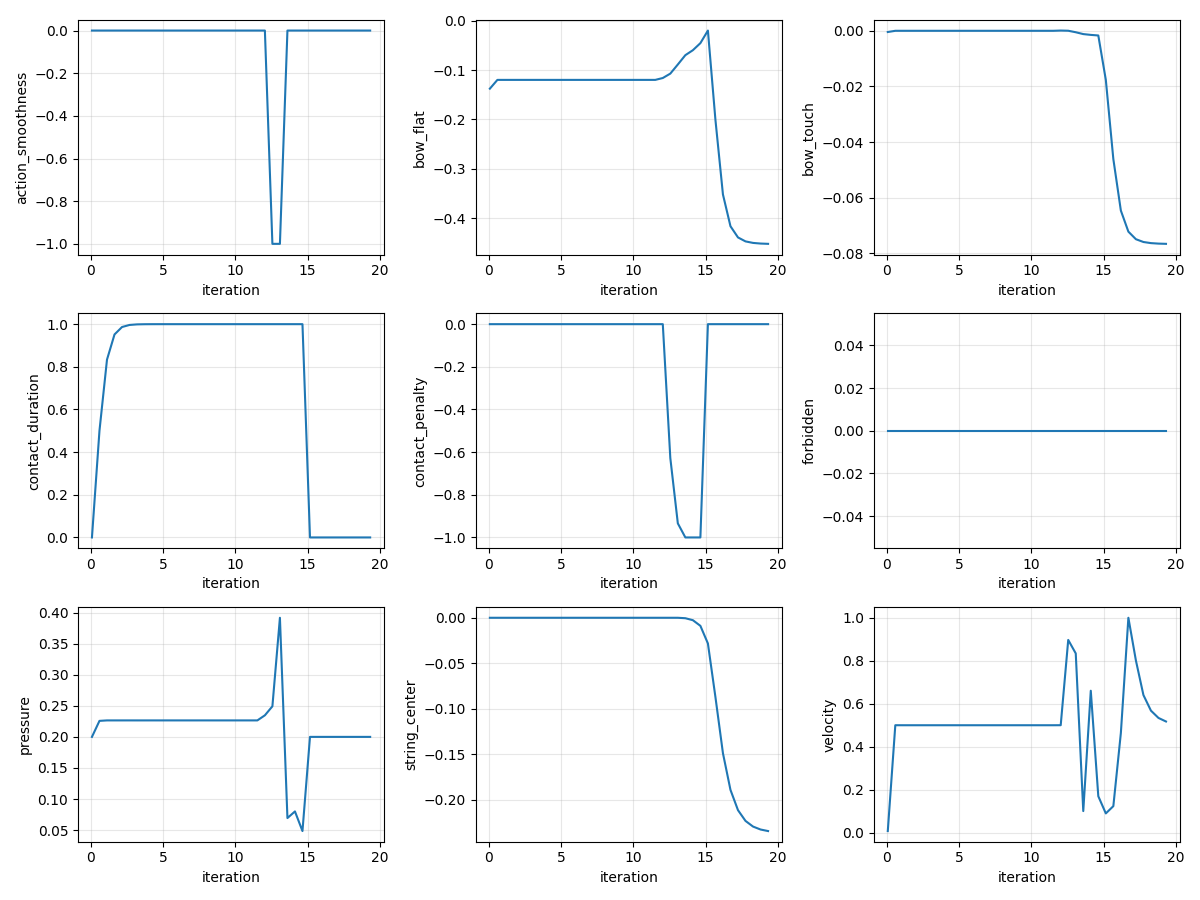
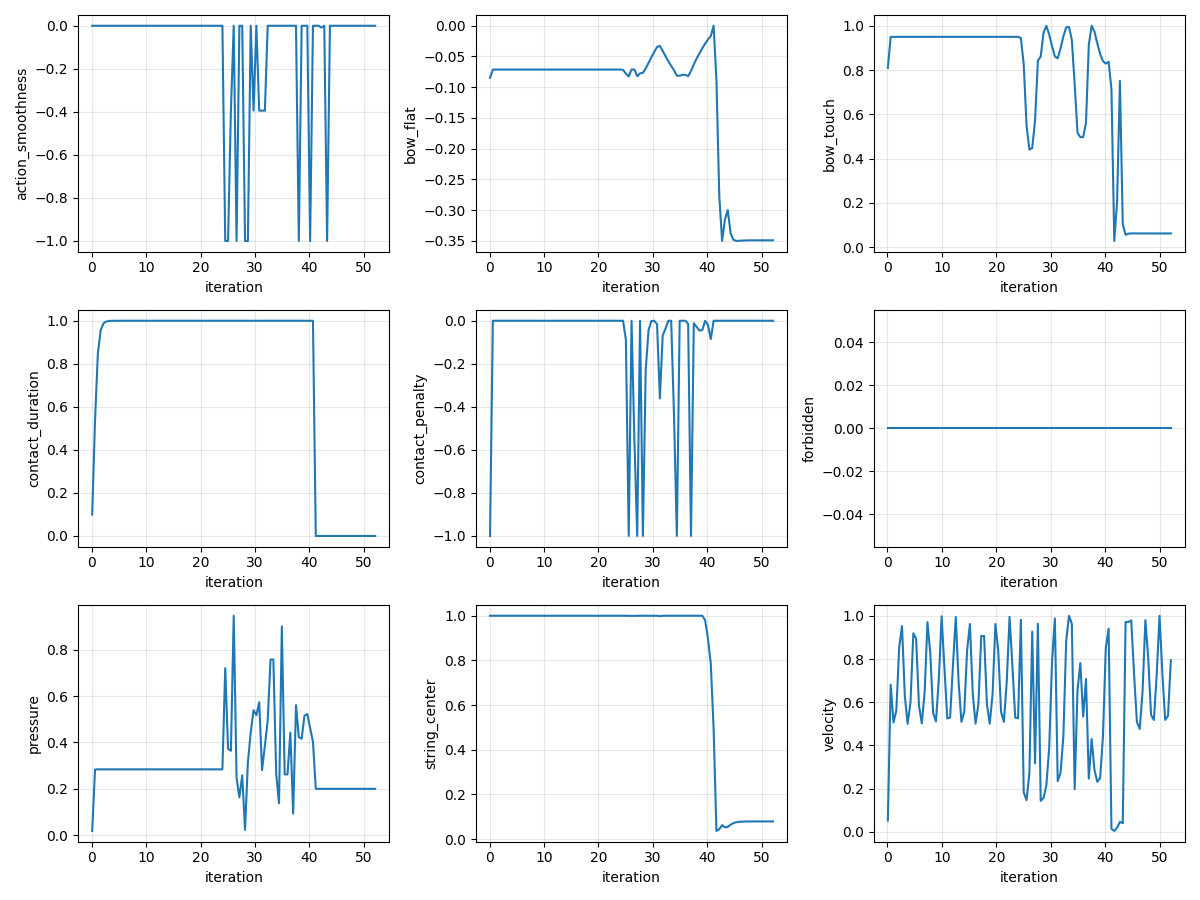
add cuachy kernel

diff --git a/envs/erhu_env.py b/envs/erhu_env.py
@@ -415,15 +415,15 @@ class ErhuEnv(MjxEnv):
     def _reward_bow_touch_box(self, data: mjx.Data, k: Dict[str, jax.Array]) -> jax.Array:
         """Bow should ride at the top surface of (the curve top surface of) the sound box."""
         mid_local = self._relative(k["mid"], self._sound_box_id, data)
-        return jp.maximum(-1.0, -jp.square(mid_local[2] - self._sound_box_radius))
+        err = (mid_local[2] - self._sound_box_radius) / self._sound_box_radius
+        return 1.0 / (1.0 + jp.square(err))
 
     def _reward_string_center(self, data: mjx.Data, k: Dict[str, jax.Array]) -> jax.Array:
         """Bow center should stay within `string_tolerance` of the between-strings target."""
         target = self._between_strings_target(data)
         string_dist = jp.linalg.norm(k["mid"] - target)
-        return jp.maximum(
-            -1.0, -jp.square(jp.maximum(0.0, string_dist - self.string_tolerance))
-        )
+        err = jp.maximum(0.0, string_dist - self.string_tolerance) / self.string_tolerance
+        return 1.0 / (1.0 + jp.square(err))
 
     def _reward_contact_penalty(self, k: Dict[str, jax.Array]) -> jax.Array:
         """Penalize the largest contact force in the scene above the soft

diff --git a/test_env.py b/test_env.py
@@ -71,6 +71,7 @@ def main(xml_path):
 
     env = ErhuEnv(episode_time_limit=1000, max_ctrl_delta=0.05, f_safe=3, f_max=30)
     state = env.reset(jax.random.PRNGKey(0))
+    print(f"Environment reset.")
     model = env.mj_model
     data = mjx.get_data(model, state.pipeline_state)
 
@@ -95,7 +96,6 @@ def main(xml_path):
         print("Teleoperation loop running. Press ESC in viewer to exit.")
         print("Drag the actuator sliders in the viewer's Control panel to command the arm.")
         start = time.time()
-
         try:
             while viewer.is_running():
                 elapsed_real = time.time() - start
